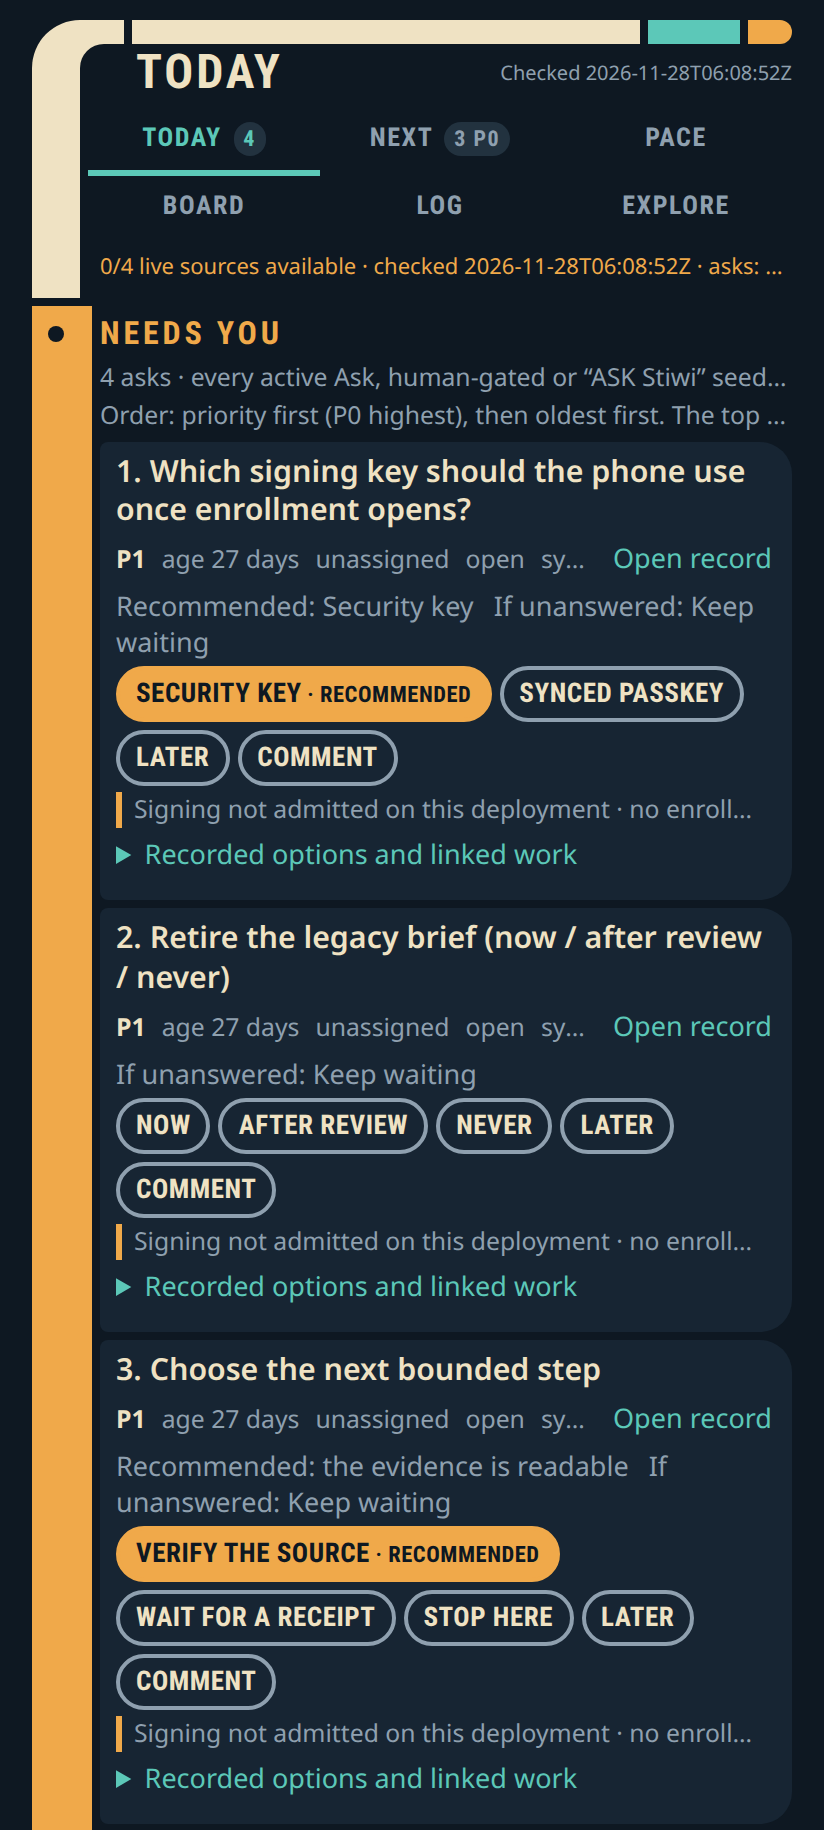
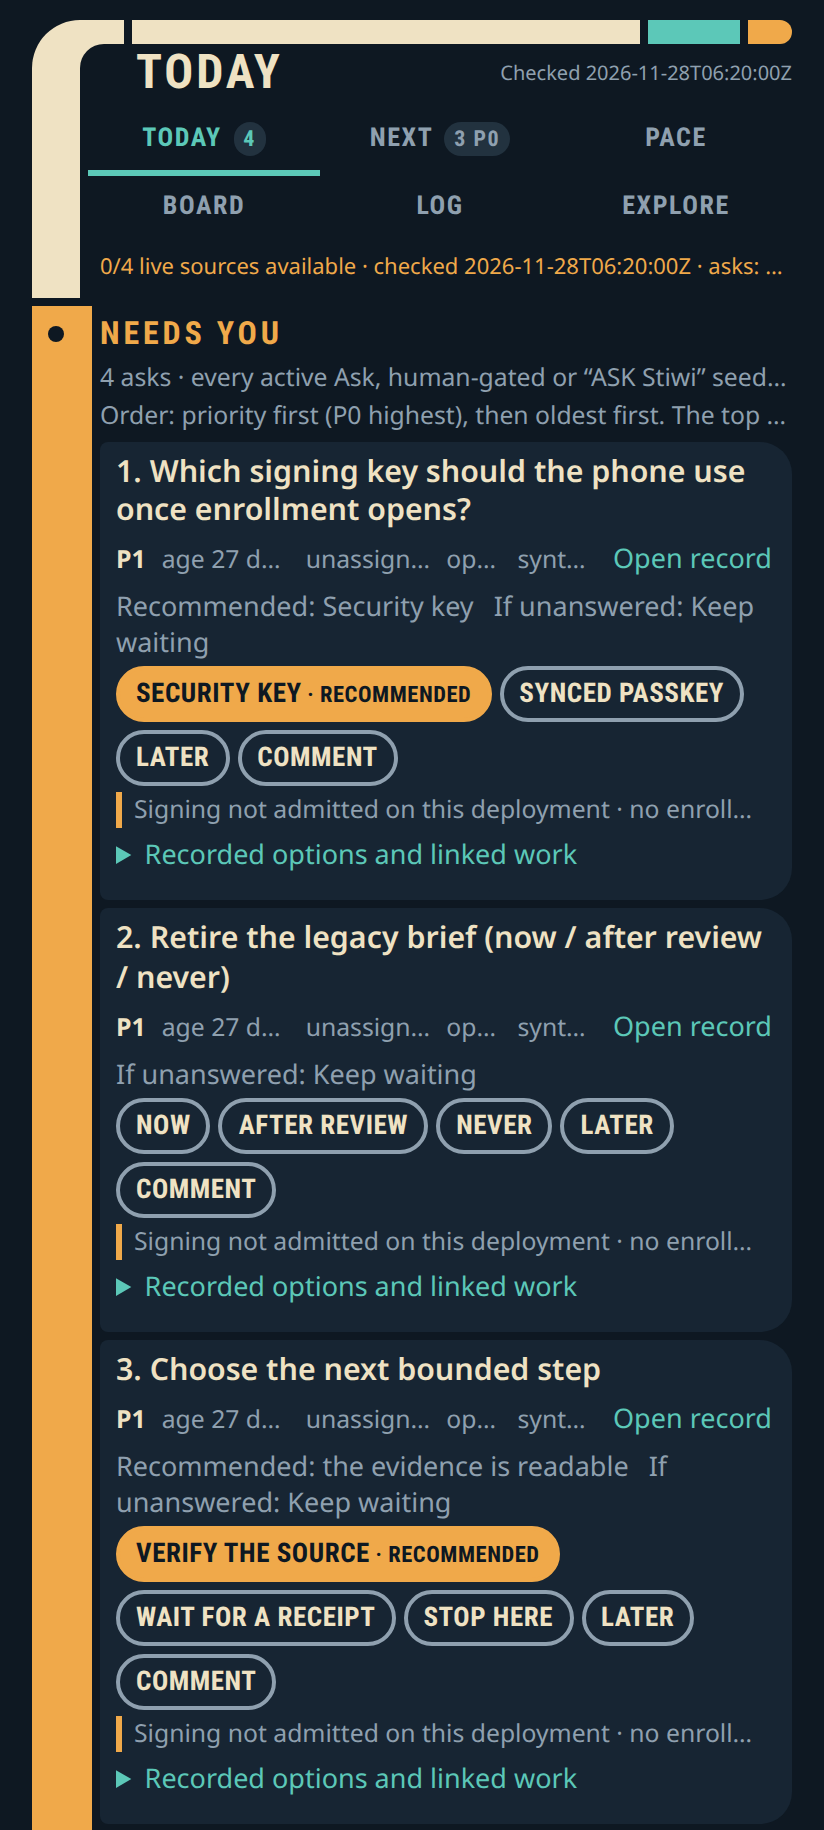
test(today): no horizontal scroll at phone width with wider text; meta fields keep full text as a tooltip
Claude-Session: https://claude.ai/code/session_014TTLD7r5oftTdMpHY4MPZR

diff --git a/docs/demos/today-phone/README.md b/docs/demos/today-phone/README.md
@@ -20,3 +20,22 @@ Desktop layout is unchanged: the compact rules apply at 600 px and below.
 
 The CI browser may lack the condensed console fonts. With every font forced to
 the wider DejaVu Sans, the third Ask choices still end at y=839 of 915.
+
+## Wider fonts: the Ask meta line
+
+On the CI runner the meta line under each Ask (priority, age, owner, status,
+More, Open record) did not fit at 390 px, so Open record pushed the page 8 px
+wider than the screen. The text fields on that line now give way with an
+ellipsis (id first, priority never), and each keeps its full value as a
+tooltip. `scripts/test-today-browser.mjs` repeats its no-horizontal-scroll
+check at a 125% root font with wider letter spacing, so the check does not
+depend on which fonts are installed.
+
+Captured from `just demo` at `/today/demo-asks/`, 412 px wide, root font 125%:
+
+| | `document.scrollWidth` |
+| --- | --- |
+| Before | 448 (Open record cut off at the right edge) |
+| After | 412 |
+
+![Before, root font 125%](demo-asks-before-412-font-125pct.png) ![After, root font 125%](demo-asks-after-412-font-125pct.png)
